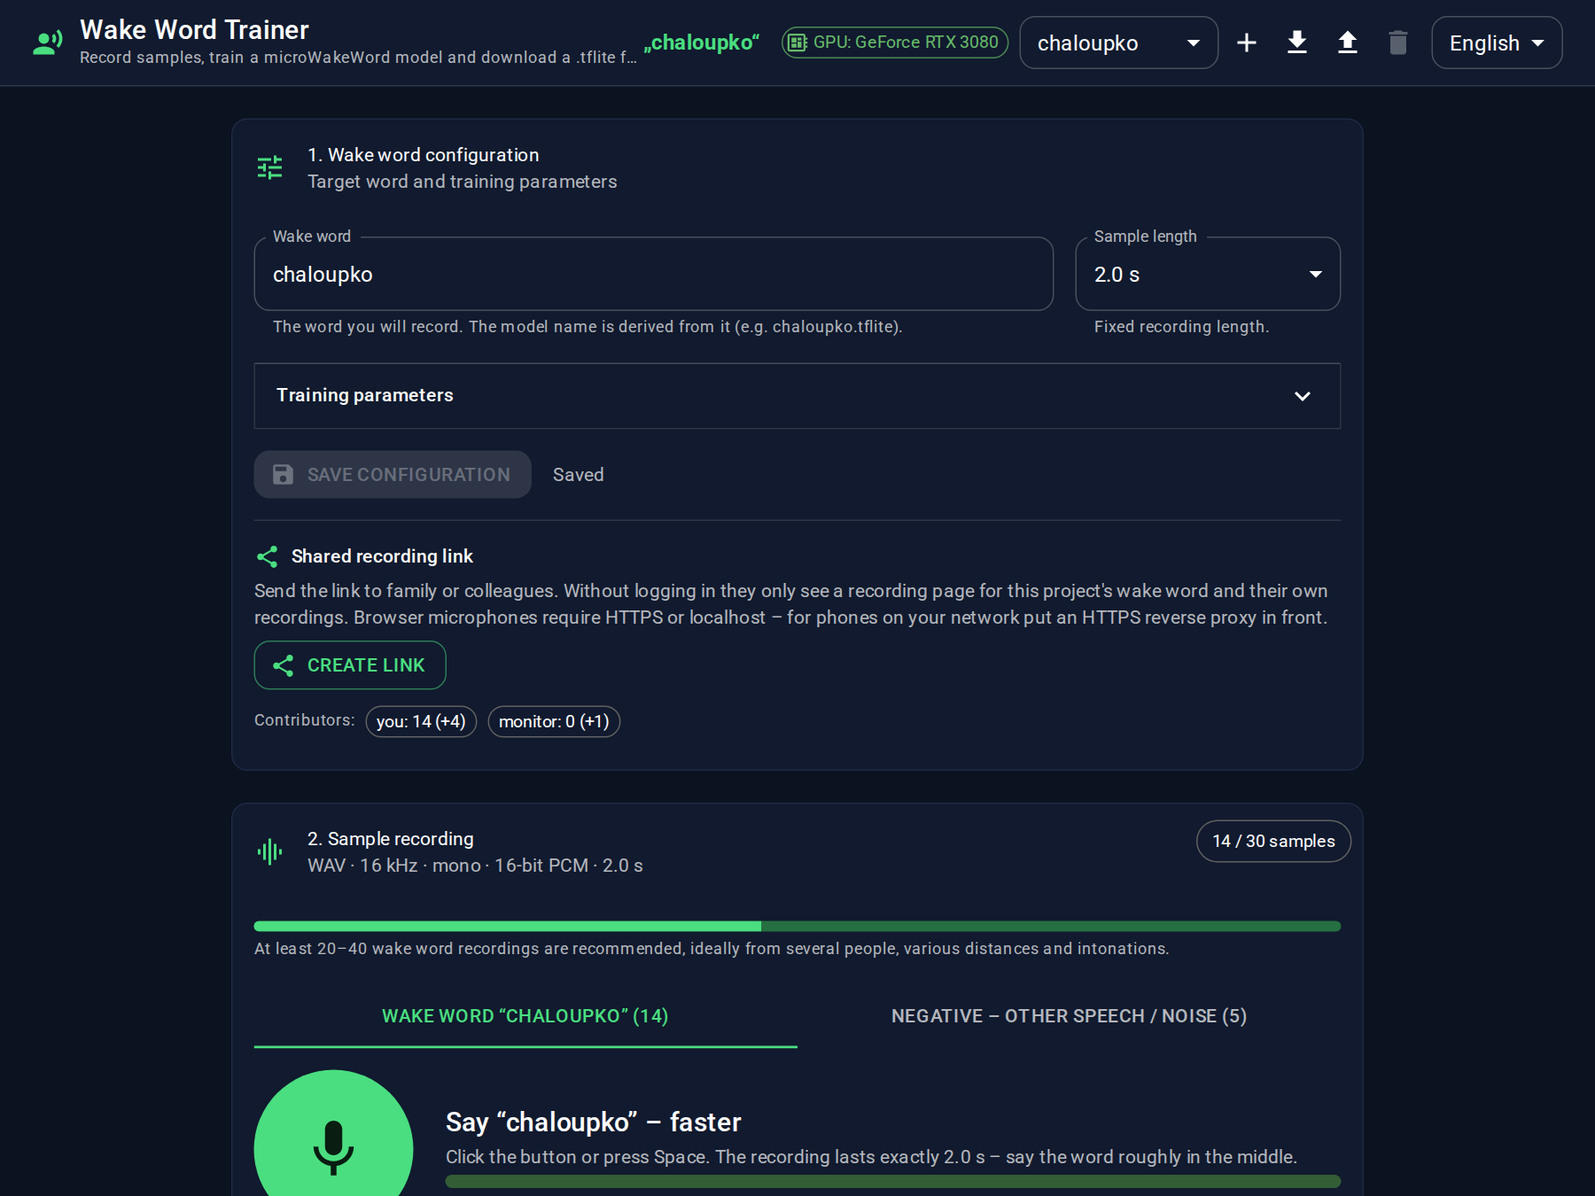
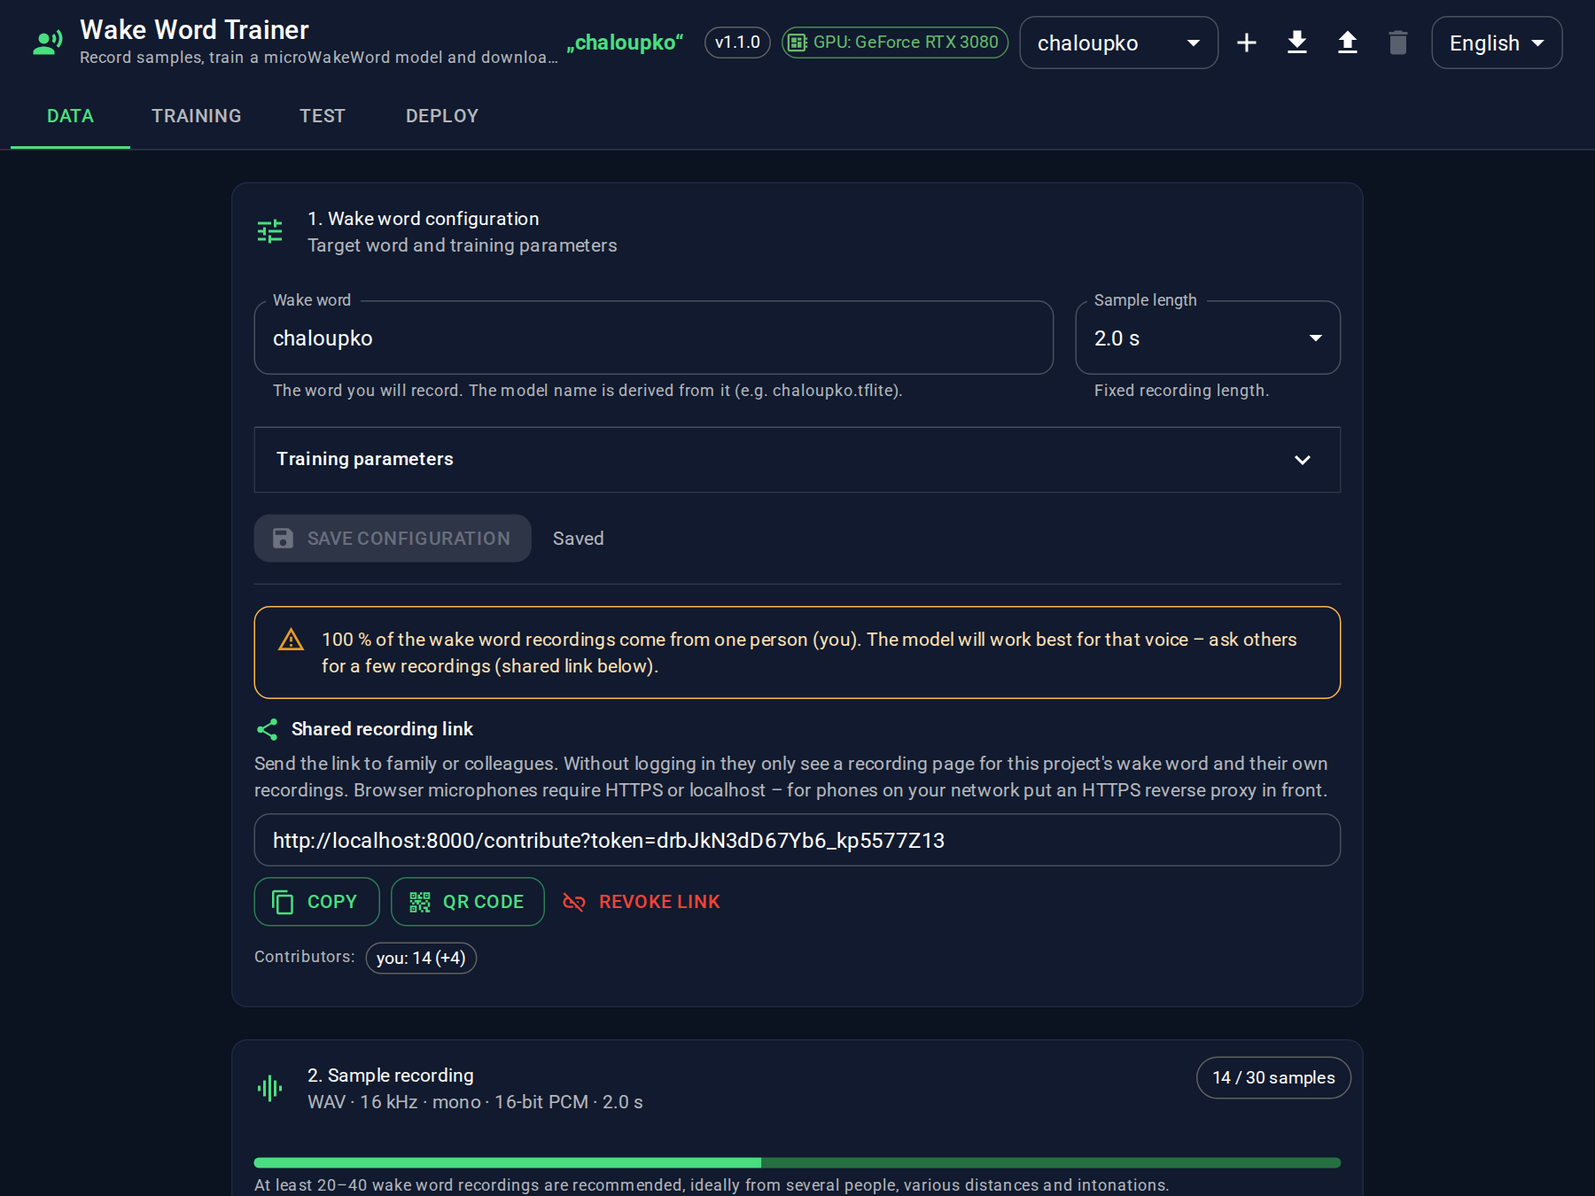
Tabbed UI, retrain from monitor negatives, contributor balance warning, version chip with update check, window tuning fix; v1.1.0
Claude-Session: https://claude.ai/code/session_01MFn3rASpeMSKCf1XtfCwg7

diff --git a/frontend/src/App.tsx b/frontend/src/App.tsx
@@ -1,5 +1,5 @@
 import { useCallback, useEffect, useState } from "react";
-import { Alert, AppBar, Box, Container, MenuItem, Select, Snackbar, Stack, Toolbar, Typography } from "@mui/material";
+import { Alert, AppBar, Badge, Box, Container, MenuItem, Select, Snackbar, Stack, Tab, Tabs, Toolbar, Typography } from "@mui/material";
 import RecordVoiceOverIcon from "@mui/icons-material/RecordVoiceOver";
 import { AppThemeProvider } from "./theme";
 import { api, type Job, type Project, type ProjectSummary, type TrainingParams } from "./api";
@@ -37,7 +37,18 @@ function Main() {
   const [reloadKey, setReloadKey] = useState(0);
   const [jobsVersion, setJobsVersion] = useState(0);
   const [error, setError] = useState<string | null>(null);
+  const [info, setInfo] = useState<string | null>(null);
   const { state, log, connected } = useTrainingStream();
+  const TABS = ["data", "train", "test", "deploy"] as const;
+  type TabId = (typeof TABS)[number];
+  const [tab, setTab] = useState<TabId>(() => {
+    const hash = location.hash.replace("#", "") as TabId;
+    return TABS.includes(hash) ? hash : "data";
+  });
+  const selectTab = (next: TabId) => {
+    setTab(next);
+    history.replaceState(null, "", `#${next}`);
+  };
 
   const showError = useCallback((message: string) => setError(message), []);
 
@@ -112,22 +123,41 @@ function Main() {
             <MenuItem value="en">English</MenuItem>
           </Select>
         </Toolbar>
+        <Tabs value={tab} onChange={(_, v) => selectTab(v as TabId)} variant="scrollable" allowScrollButtonsMobile sx={{ px: 1 }}>
+          <Tab value="data" label={t("tabs.data")} />
+          <Tab
+            value="train"
+            label={
+              <Badge color="info" variant="dot" invisible={!running}>
+                {t("tabs.train")}
+              </Badge>
+            }
+          />
+          <Tab value="test" label={t("tabs.test")} />
+          <Tab value="deploy" label={t("tabs.deploy")} />
+        </Tabs>
       </AppBar>
 
       <Container maxWidth="md" sx={{ py: 3 }}>
         <Stack spacing={3}>
-          {project && defaults && <ConfigCard project={project} defaults={defaults} disabled={running} onSaved={setProject} onError={showError} />}
-          {project && <RecorderCard key={project.id} wakeWord={project.wake_word} durationS={project.sample_duration_s} disabled={running} onCountsChange={setCounts} onError={showError} />}
-          <DatasetsCard disabled={running} onError={showError} />
-          <TrainingCard state={state} log={log} connected={connected} positiveCount={counts.positive} wakeWord={project?.wake_word ?? ""} onError={showError} onFinished={loadJobs} />
-          <JobsCard jobs={jobs} disabled={running} onChanged={loadJobs} onError={showError} />
-          <TestCard jobs={jobs} wakeWord={project?.wake_word ?? ""} disabled={running} onError={showError} />
-          {project && <DeployCard projectId={project.id} jobsVersion={jobsVersion} onError={showError} />}
+          {tab === "data" && project && defaults && <ConfigCard project={project} defaults={defaults} disabled={running} onSaved={setProject} onError={showError} />}
+          {tab === "data" && project && <RecorderCard key={project.id} wakeWord={project.wake_word} durationS={project.sample_duration_s} disabled={running} onCountsChange={setCounts} onError={showError} />}
+          {tab === "data" && <DatasetsCard disabled={running} onError={showError} />}
+          {tab === "train" && <TrainingCard state={state} log={log} connected={connected} positiveCount={counts.positive} wakeWord={project?.wake_word ?? ""} onError={showError} onFinished={loadJobs} />}
+          {tab === "train" && <JobsCard jobs={jobs} disabled={running} onChanged={loadJobs} onError={showError} />}
+          {tab === "test" && <TestCard jobs={jobs} wakeWord={project?.wake_word ?? ""} disabled={running} onError={showError} onInfo={setInfo} />}
+          {tab === "deploy" && project && <DeployCard projectId={project.id} jobsVersion={jobsVersion} onError={showError} />}
           <Typography variant="caption" color="text.secondary" textAlign="center">
             {t("app.footer")}
           </Typography>
         </Stack>
       </Container>
+
+      <Snackbar open={!!info} autoHideDuration={6000} onClose={() => setInfo(null)} anchorOrigin={{ vertical: "bottom", horizontal: "center" }}>
+        <Alert severity="success" onClose={() => setInfo(null)} variant="filled">
+          {info}
+        </Alert>
+      </Snackbar>
 
       <Snackbar open={!!error} autoHideDuration={8000} onClose={() => setError(null)} anchorOrigin={{ vertical: "bottom", horizontal: "center" }}>
         <Alert severity="error" onClose={() => setError(null)} variant="filled">

diff --git a/frontend/src/components/TestCard.tsx b/frontend/src/components/TestCard.tsx
@@ -12,14 +12,14 @@ import { api, type Evaluation, type Job, type MonitorItem } from "../api";
 import { errorText, useI18n, type TKey } from "../i18n";
 import { Recorder } from "../lib/recorder";
 
-type Props = { jobs: Job[]; wakeWord: string; disabled: boolean; onError: (message: string) => void };
+type Props = { jobs: Job[]; wakeWord: string; disabled: boolean; onError: (message: string) => void; onInfo?: (message: string) => void };
 
 type FrameMsg = { type: "frames"; t: number; frames: { p: number; avg: number; detected: boolean }[]; detections: number; max: number };
 type DetectionMsg = { type: "detection"; item: MonitorItem; t: number };
 
 const HISTORY = 240;
 
-export function TestCard({ jobs, wakeWord, disabled, onError }: Props) {
+export function TestCard({ jobs, wakeWord, disabled, onError, onInfo }: Props) {
   const { t } = useI18n();
   const theme = useTheme();
   const models = jobs.filter((j) => j.status === "done" && j.model_url);
@@ -83,6 +83,17 @@ export function TestCard({ jobs, wakeWord, disabled, onError }: Props) {
       onError(errorText(t, e));
     }
   };
+  const retrainWithMonitor = async () => {
+    try {
+      const res = await api.monitorAdoptAll();
+      await api.startTraining({}, t("monitor.retrainLabel"));
+      await loadSaved();
+      onInfo?.(t("monitor.retrained", { n: res.moved }));
+    } catch (e) {
+      onError(errorText(t, e));
+    }
+  };
+
   const flagOutliers = async () => {
     if (!evaluation) return;
     const outliers = evaluation.items.filter((i) => i.outlier);
@@ -311,9 +322,14 @@ export function TestCard({ jobs, wakeWord, disabled, onError }: Props) {
                   {t("monitor.title")}
                 </Typography>
                 {saved.length > 0 && (
-                  <Button size="small" color="error" onClick={clearSaved}>
-                    {t("monitor.clear")}
-                  </Button>
+                  <>
+                    <Button size="small" variant="contained" onClick={retrainWithMonitor} disabled={disabled || active}>
+                      {t("monitor.retrain")}
+                    </Button>
+                    <Button size="small" color="error" onClick={clearSaved}>
+                      {t("monitor.clear")}
+                    </Button>
+                  </>
                 )}
               </Stack>
               <Typography variant="body2" color="text.secondary" sx={{ mb: 1 }}>

diff --git a/tests/e2e/smoke.js b/tests/e2e/smoke.js
@@ -1,4 +1,4 @@
-// Playwright smoke test: the SPA renders all six cards and the contributor page rejects a bad token.
+// Playwright smoke test: every tab renders its cards and the contributor page rejects a bad token.
 const { chromium } = require("playwright");
 const BASE = process.env.BASE_URL || "http://localhost:8000";
 
@@ -9,19 +9,28 @@ const BASE = process.env.BASE_URL || "http://localhost:8000";
   page.on("pageerror", (e) => errors.push(String(e)));
   await page.goto(BASE, { waitUntil: "load" });
   await page.waitForSelector(".MuiCard-root", { timeout: 20000 });
-  await page.waitForTimeout(2000);
-  const cards = await page.locator(".MuiCard-root").count();
-  const text = await page.locator("body").innerText();
-  for (const expected of ["Wake word configuration", "Sample recording", "Negative datasets", "Model training", "Trained models", "Test the model"]) {
-    if (!text.includes(expected)) throw new Error(`Missing card: ${expected}`);
+  const expected = {
+    Data: ["Wake word configuration", "Sample recording", "Negative datasets"],
+    Training: ["Model training", "Trained models"],
+    Test: ["Test the model"],
+    Deploy: ["Deploy to ESPHome"],
+  };
+  let cards = 0;
+  for (const [tab, titles] of Object.entries(expected)) {
+    await page.getByRole("tab", { name: tab }).click();
+    await page.waitForTimeout(1500);
+    const text = await page.locator("body").innerText();
+    for (const title of titles) {
+      if (!text.includes(title)) throw new Error(`Tab ${tab}: missing card ${title}`);
+    }
+    cards += await page.locator(".MuiCard-root").count();
   }
-  if (cards < 6) throw new Error(`Expected >= 6 cards, got ${cards}`);
   await page.goto(`${BASE}/contribute?token=invalid`, { waitUntil: "load" });
   await page.waitForTimeout(1500);
   const contributeText = await page.locator("body").innerText();
   if (!/not valid/i.test(contributeText)) throw new Error("Contributor page did not reject an invalid token");
   if (errors.length) throw new Error(`Page errors: ${errors.join("; ")}`);
-  console.log(`OK: ${cards} cards rendered, contributor page guarded`);
+  console.log(`OK: ${cards} cards rendered across 4 tabs, contributor page guarded`);
   await browser.close();
 })().catch((e) => {
   console.error(e);

diff --git a/frontend/src/i18n.tsx b/frontend/src/i18n.tsx
@@ -359,6 +359,18 @@ const cs = {
   "err.bad_param": "Tento parametr nelze sweepovat.",
   "err.bad_values": "Zadejte alespoň jednu hodnotu.",
   "err.no_models": "Žádný projekt nemá natrénovaný model.",
+  "tabs.data": "Data",
+  "tabs.train": "Trénink",
+  "tabs.test": "Test",
+  "tabs.deploy": "Nasazení",
+  "monitor.retrain": "Přidat vše jako negativa a přetrénovat",
+  "monitor.retrainLabel": "retrénink s negativy z monitoru",
+  "monitor.retrained": "{n} aktivací přidáno mezi negativa, trénink spuštěn.",
+  "share.imbalance": "{share} % wake word nahrávek namluvil jeden člověk ({name}). Model bude nejlépe reagovat na jeho hlas – požádejte ostatní o pár nahrávek (sdílený odkaz níže).",
+  "train.autoWindow": "Průměrovací okno nastaveno na {window} (nejlepší odstup mezi wake wordem a negativy).",
+  "sys.version": "v{version}",
+  "sys.update": "Nová verze {latest} na GitHubu",
+  "sys.upToDate": "Aktuální verze",
 };
 
 const en: Record<keyof typeof cs, string> = {
@@ -717,6 +729,18 @@ const en: Record<keyof typeof cs, string> = {
   "err.bad_param": "This parameter cannot be swept.",
   "err.bad_values": "Enter at least one value.",
   "err.no_models": "No project has a trained model.",
+  "tabs.data": "Data",
+  "tabs.train": "Training",
+  "tabs.test": "Test",
+  "tabs.deploy": "Deploy",
+  "monitor.retrain": "Add all as negatives and retrain",
+  "monitor.retrainLabel": "retrain with monitor negatives",
+  "monitor.retrained": "{n} activations added to negatives, training started.",
+  "share.imbalance": "{share} % of the wake word recordings come from one person ({name}). The model will work best for that voice – ask others for a few recordings (shared link below).",
+  "train.autoWindow": "Averaging window set to {window} (best separation between the wake word and negatives).",
+  "sys.version": "v{version}",
+  "sys.update": "New version {latest} on GitHub",
+  "sys.upToDate": "Up to date",
 };
 
 export type TKey = keyof typeof cs;

diff --git a/frontend/src/api.ts b/frontend/src/api.ts
@@ -23,6 +23,10 @@ export type Project = {
 };
 
 export type SystemInfo = {
+  version: string;
+  latest_version: string | null;
+  update_available: boolean;
+  releases_url: string;
   gpu: null | { name: string; memory_total_mb: number; memory_used_mb: number; driver: string; utilization: number | null };
   gpu_available: boolean;
   tensorflow_cuda: boolean;
@@ -97,6 +101,8 @@ export type ValidationEntry = {
 export type RocPoint = { cutoff: number; frr: number; faph: number };
 export type AutoThreshold = {
   cutoff: number;
+  window?: number;
+  margin?: number;
   positives_total: number;
   positives_passed: number;
   positives_p05: number;
@@ -267,6 +273,7 @@ export const api = {
   monitorToNegative: (id: string) => request<Recording>(`/api/monitor/${id}/negative`, { method: "POST" }),
   deleteMonitor: (id: string) => request<{ deleted: string }>(`/api/monitor/${id}`, { method: "DELETE" }),
   clearMonitor: () => request<{ deleted: number }>("/api/monitor", { method: "DELETE" }),
+  monitorAdoptAll: () => request<{ moved: number }>("/api/monitor/adopt-all", { method: "POST" }),
   deviceEvents: (since?: string) => request<{ items: DeviceEvent[]; minimum_esphome_version: string; outdated_versions: string[]; now: string }>(`/api/monitor/device-events${since ? `?since=${encodeURIComponent(since)}` : ""}`),
   publicUrls: (projectId: string) => request<PublicUrls>(`/api/projects/${projectId}/public-urls`),
   bundleUrl: (ids?: string[]) => `/api/bundle${ids && ids.length ? `?projects=${ids.join(",")}` : ""}`,

diff --git a/frontend/src/components/ConfigCard.tsx b/frontend/src/components/ConfigCard.tsx
@@ -1,5 +1,5 @@
 import { useEffect, useState } from "react";
-import { Accordion, AccordionDetails, AccordionSummary, Box, Button, Card, CardContent, CardHeader, Chip, Divider, FormControlLabel, MenuItem, Stack, Switch, TextField, Typography } from "@mui/material";
+import { Accordion, AccordionDetails, AccordionSummary, Alert, Box, Button, Card, CardContent, CardHeader, Chip, Divider, FormControlLabel, MenuItem, Stack, Switch, TextField, Typography } from "@mui/material";
 import ShareIcon from "@mui/icons-material/Share";
 import ContentCopyIcon from "@mui/icons-material/ContentCopy";
 import LinkOffIcon from "@mui/icons-material/LinkOff";
@@ -187,8 +187,17 @@ function ShareSection({ project, onSaved, onError }: { project: Project; onSaved
     }
   };
 
+  const totalPositive = contributors.reduce((a, c) => a + c.positive, 0);
+  const top = contributors[0];
+  const imbalance = top && totalPositive >= 10 && top.positive / totalPositive >= 0.8 ? { share: Math.round((top.positive / totalPositive) * 100), name: top.name === "owner" ? t("share.owner") : top.name } : null;
+
   return (
     <Box>
+      {imbalance && (
+        <Alert severity="warning" variant="outlined" sx={{ mb: 1.5 }}>
+          {t("share.imbalance", imbalance)}
+        </Alert>
+      )}
       <Stack direction="row" spacing={1} alignItems="center">
         <ShareIcon fontSize="small" color="primary" />
         <Typography variant="subtitle2">{t("share.title")}</Typography>

diff --git a/frontend/src/components/SystemChip.tsx b/frontend/src/components/SystemChip.tsx
@@ -29,6 +29,20 @@ export function SystemChip() {
     tip = t("sys.cpuTip", { cpus: info.cpu_count ?? "?" });
   }
   return (
+    <>
+      <Tooltip title={info.update_available ? t("sys.update", { latest: info.latest_version ?? "" }) : t("sys.upToDate")}>
+        <Chip
+          size="small"
+          variant="outlined"
+          color={info.update_available ? "info" : "default"}
+          label={t("sys.version", { version: info.version })}
+          component="a"
+          href={info.releases_url}
+          target="_blank"
+          clickable
+          sx={{ mr: 1, display: { xs: "none", md: "inline-flex" } }}
+        />
+      </Tooltip>
     <Tooltip title={`${tip} ${last}`.trim()}>
       <Chip
         size="small"
@@ -39,5 +53,6 @@ export function SystemChip() {
         sx={{ mr: 1, display: { xs: "none", sm: "inline-flex" } }}
       />
     </Tooltip>
+    </>
   );
 }

diff --git a/frontend/src/components/TrainingCard.tsx b/frontend/src/components/TrainingCard.tsx
@@ -353,6 +353,9 @@ export function TrainingCard({ state, log, connected, positiveCount, wakeWord, o
                       faph: state.final_metrics.faph.toFixed(2),
                     })}
                 </Typography>
+                {state.final_metrics?.auto_threshold?.window && state.final_metrics.auto_threshold.window !== 5 && (
+                  <Typography variant="body2">{t("train.autoWindow", { window: state.final_metrics.auto_threshold.window })}</Typography>
+                )}
                 {state.final_metrics?.auto_threshold && (
                   <Typography variant="body2">
                     {state.final_metrics.auto_threshold.negatives_total > 0

diff --git a/backend/trainer/run.py b/backend/trainer/run.py
@@ -603,10 +603,14 @@ def auto_threshold(job: dict, model_path: Path) -> dict | None:
         })
     if not candidates:
         return None
-    # best separation between wake word recordings and negatives; ties go to the ESPHome default window (5)
-    best = max(candidates, key=lambda c: (c["positives_passed"] - c["negatives_triggered"], c["margin"], c["window"] == 5))
-    best["candidates"] = candidates
     log("Window tuning: " + "; ".join(f"w={c['window']}: margin {c['margin']:+.2f}, cutoff {c['cutoff']:.2f}" for c in candidates))
+    return pick_best_window(candidates)
+
+
+def pick_best_window(candidates: list[dict]) -> dict:
+    """Best separation between wake word recordings and negatives; ties go to the ESPHome default window (5)."""
+    best = dict(max(candidates, key=lambda c: (c["positives_passed"] - c["negatives_triggered"], c["margin"], c["window"] == 5)))
+    best["candidates"] = [dict(c) for c in candidates]
     return best
 
 

diff --git a/backend/tests/test_trainer_run.py b/backend/tests/test_trainer_run.py
@@ -75,3 +75,18 @@ def test_version_and_update_check(monkeypatch):
     system._cache.update(at=0.0, value=None)
     info = system.system_info()
     assert info["version"] == "1.1.0" and info["latest_version"] == "v1.2.0" and info["update_available"] is True
+
+
+def test_pick_best_window_is_json_serializable_and_prefers_separation():
+    import json
+
+    from trainer.run import pick_best_window
+
+    cands = [
+        {"window": 3, "margin": 0.1, "cutoff": 0.6, "positives_passed": 9, "negatives_triggered": 0},
+        {"window": 5, "margin": 0.2, "cutoff": 0.7, "positives_passed": 10, "negatives_triggered": 0},
+        {"window": 7, "margin": 0.25, "cutoff": 0.8, "positives_passed": 8, "negatives_triggered": 0},
+    ]
+    best = pick_best_window(cands)
+    assert best["window"] == 5 and len(best["candidates"]) == 3
+    json.dumps(best)  # must not raise (no circular reference)

diff --git a/README.md b/README.md
@@ -24,7 +24,8 @@ and testing the result live in the browser. The output `.tflite` + manifest work
   to see which samples are missed and which negatives trigger it; outliers (bad takes, negatives that trigger) can be
   flagged for review with one click.
 - **Long-run false-accept monitor** – leave the browser listening during normal household activity; every activation is
-  saved (last 3 s of audio), can be played back and turned into a negative sample for the next training run.
+  saved (last 3 s of audio), can be played back and turned into a negative sample – or adopt them all and retrain with one click.
+- **Contributor balance** – a warning when one voice dominates the wake word recordings (the model would overfit to it).
 - **Deploy to ESPHome** – the latest model and manifest are served from token-protected URLs, so ESPHome can load
   `model: https://…/manifest.json` directly; an example YAML also posts every on-device detection back to the trainer's
   device timeline (with the ESPHome version, warning when it is older than the manifest requires). A bundle ZIP packs the
@@ -42,12 +43,15 @@ and testing the result live in the browser. The output `.tflite` + manifest work
   optional ESC-50 environmental sounds and FMA music serve as real background and extra negatives.
 - **Hard negatives** – word fragments and swapped halves of your recordings are used as extra negatives so similar words
   do not trigger the model (optional).
-- **Automatic threshold** – after training the model is run over your own recordings and `probability_cutoff` is chosen so
-  that ~95 % of the wake word samples pass while every negative recording stays below.
+- **Automatic threshold and window** – after training the model is run over your own recordings with sliding windows of
+  3/5/7 frames; the window with the best separation is chosen and `probability_cutoff` is set so that ~95 % of the wake word
+  samples pass while every negative recording stays below.
 - **Charts and comparison** – validation loss and recall/accuracy over steps, test-set ROC curve; pick two runs to compare
   parameters, metrics and per-recording results side by side.
 - **Notifications** – browser notification when a run finishes, plus an optional webhook (e.g. Home Assistant) with a JSON summary.
-- **GPU indicator** – the header shows whether a GPU is visible to the container and whether the TensorFlow build can use it.
+- **GPU indicator and version** – the header shows whether a GPU is visible to the container and whether the TensorFlow build
+  can use it, plus the app version with a hint when a newer tag exists on GitHub.
+- **Tabbed UI** – Data (configuration, recording, datasets) · Training (runs, history) · Test · Deploy; the active tab is kept in the URL hash.
 - **Robust runs** – an interrupted run (container restart) is detected and can be resumed from its checkpoint; old runs
   are pruned automatically (`KEEP_JOBS`), heavy intermediate files are removed after a successful run.
 - **Export** – ZIP bundle with the `.tflite`, the ESPHome manifest, an example ESPHome YAML and the training log.
@@ -177,6 +181,12 @@ DATA_DIR=../data uvicorn app.main:app --reload
 # frontend (proxies /api to :8000)
 cd frontend && npm install && npm run dev
 ```
+
+## Not supported (yet)
+
+- **openWakeWord / Wyoming models** – openWakeWord's training stack pins TensorFlow 2.8 on Python 3.10 with torch, speechbrain and
+  onnx-tf and needs ~2 GB of pre-computed negative features; it cannot share this image. A separate container would be the way to go.
+- **TTS sample generation (Piper)** – planned as an optional Docker profile.
 
 ## Credits
 
